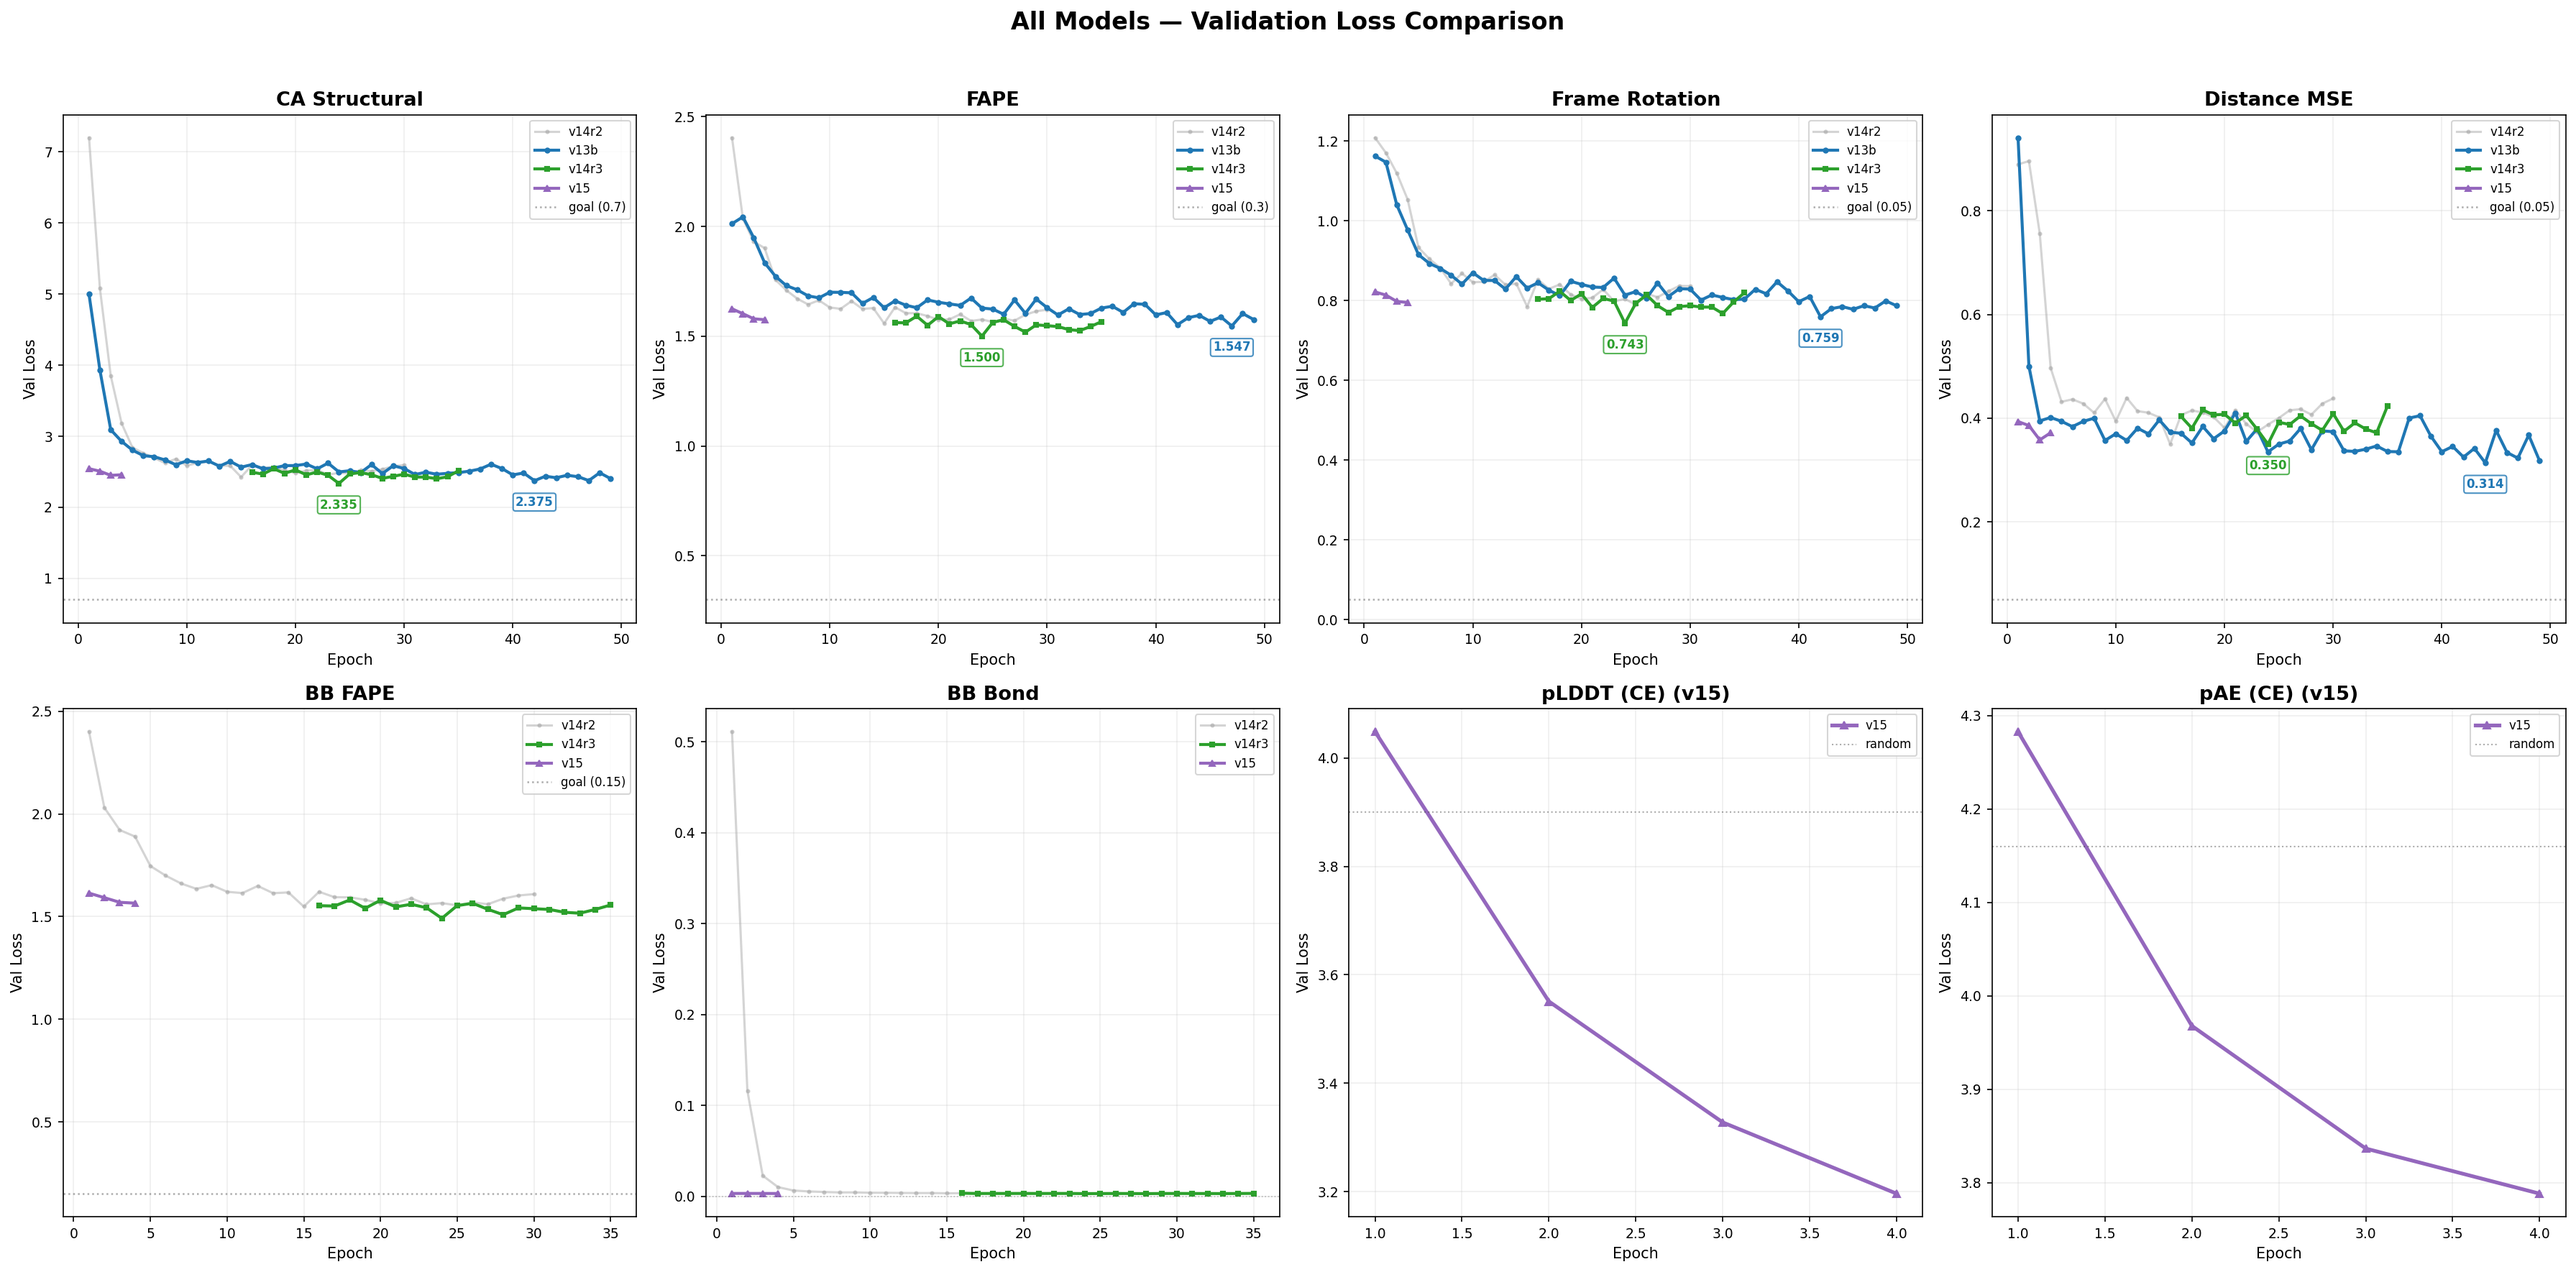
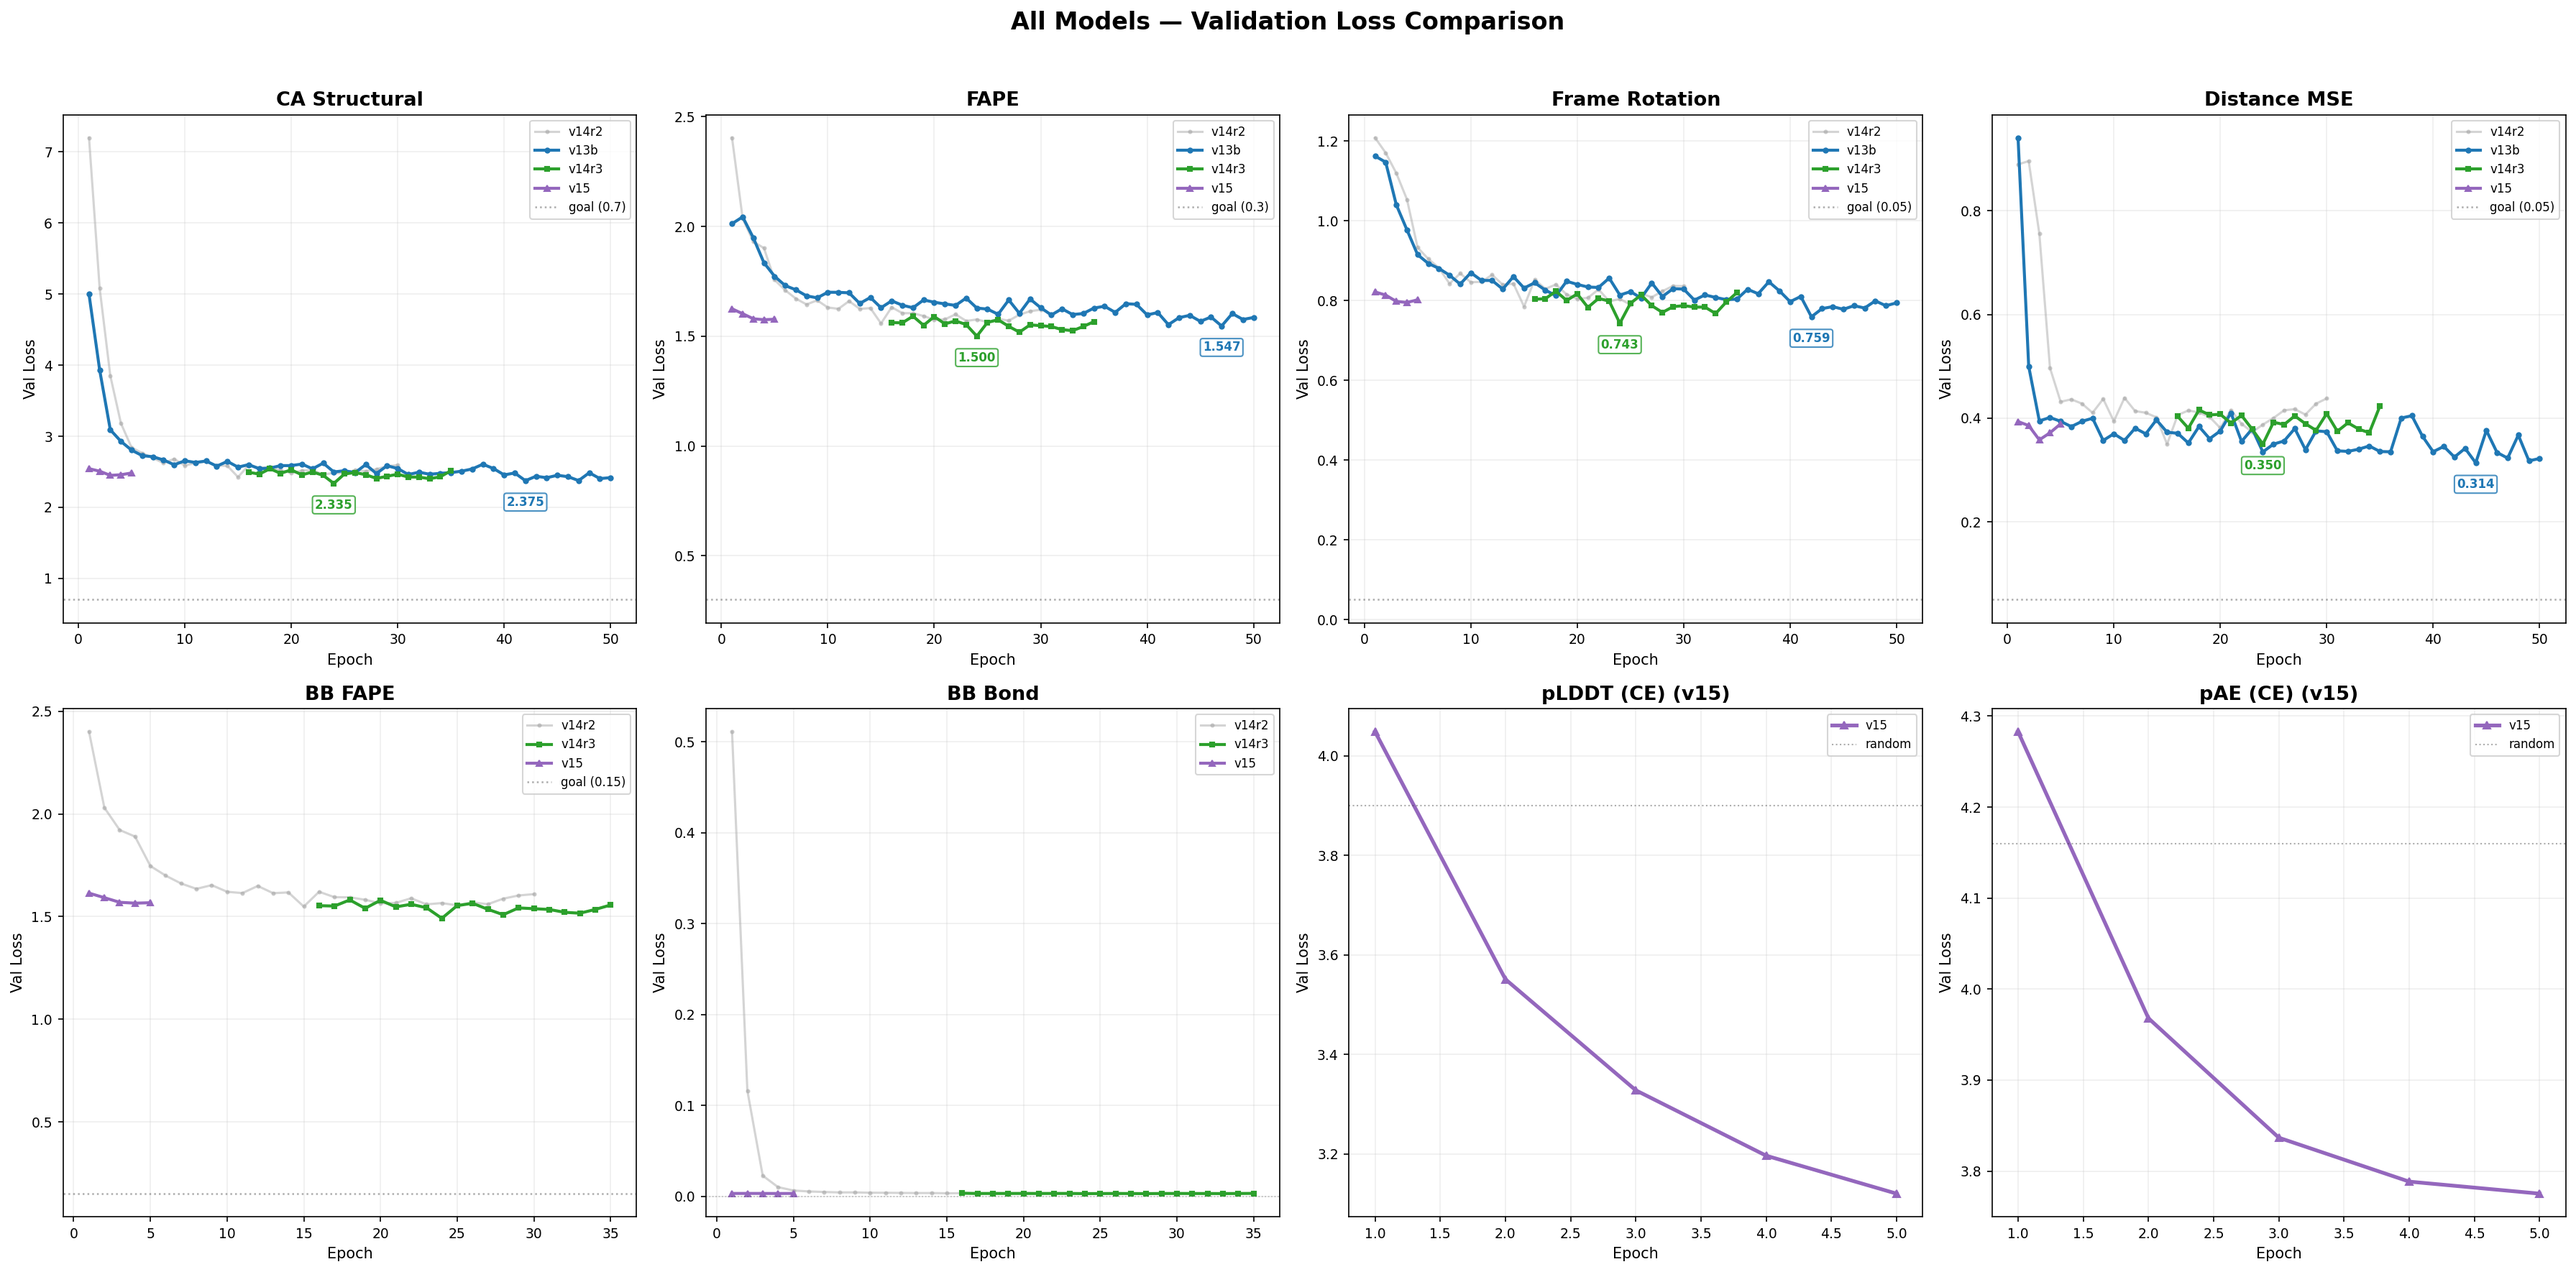
Update: v13b E50 (pat 8/15), v15 E5 (pLDDT 3.12, DDIM TM=0.095)
v15 warmup complete — now at full LR. pLDDT dropping steadily
(4.05→3.55→3.33→3.20→3.12). v13b holding at 2.375 pat 8.

diff --git a/minifold.html b/minifold.html
@@ -194,7 +194,7 @@
       Full architecture history, training tables, loss functions, and analysis for the protein backbone diffusion model.
     </p>
     <p id="last-updated" style="color: var(--text-secondary); font-size: 13px; margin-bottom: 16px; font-style: italic;">
-      Last updated: Mar 14, 2026 at 3:45 PM PST
+      Last updated: Mar 14, 2026 at 4:00 PM PST
     </p>
 
     <div class="mf-tabs">
@@ -317,6 +317,7 @@
           <tr><td>47</td><td>2.386</td><td>2.375</td><td>1.547</td><td>0.781</td><td>0.323</td><td>0.005</td><td>0.296</td><td>0.336</td><td>0.105</td><td>0.034</td><td><span class="tag tag-stale">pat 5/15</span></td></tr>
           <tr><td>48</td><td>2.495</td><td>2.375</td><td>1.603</td><td>0.799</td><td>0.343</td><td>0.005</td><td>0.293</td><td>0.340</td><td>0.109</td><td>0.034</td><td><span class="tag tag-stale">pat 6/15</span></td></tr>
           <tr><td>49</td><td>2.413</td><td>2.375</td><td>1.576</td><td>0.787</td><td>0.330</td><td>0.005</td><td>0.291</td><td>0.338</td><td>0.106</td><td>0.034</td><td><span class="tag tag-stale">pat 7/15</span></td></tr>
+          <tr><td>50</td><td>2.427</td><td>2.375</td><td>1.585</td><td>0.794</td><td>0.318</td><td>0.005</td><td>0.290</td><td>0.339</td><td>0.107</td><td>0.034</td><td><span class="tag tag-stale">pat 8/15</span></td></tr>
         </tbody>
       </table>
     </div>
@@ -407,6 +408,7 @@
           <tr><td><strong>2</strong></td><td><strong>4.671</strong></td><td style="color: #2ca02c;"><strong>2.508</strong></td><td>1.602</td><td>0.814</td><td>0.386</td><td>1.592</td><td>3.551</td><td>3.968</td><td>&mdash;</td><td><span class="tag tag-best">NEW BEST</span></td></tr>
           <tr><td><strong>3</strong></td><td><strong>4.852</strong></td><td style="color: #2ca02c;"><strong>2.449</strong></td><td>1.579</td><td>0.798</td><td>0.375</td><td>1.569</td><td>3.328</td><td>3.837</td><td>&mdash;</td><td><span class="tag tag-best">NEW BEST</span></td></tr>
           <tr><td>4</td><td>4.940</td><td>2.449</td><td>1.575</td><td>0.795</td><td>0.384</td><td>1.566</td><td>3.196</td><td>3.788</td><td>&mdash;</td><td><span class="tag tag-stale">pat 1/15</span></td></tr>
+          <tr><td>5</td><td>5.469</td><td>2.449</td><td>1.577</td><td>0.802</td><td>0.382</td><td>1.568</td><td>3.120</td><td>3.775</td><td>0.095</td><td><span class="tag tag-stale">pat 2/15</span></td></tr>
         </tbody>
       </table>
     </div>
